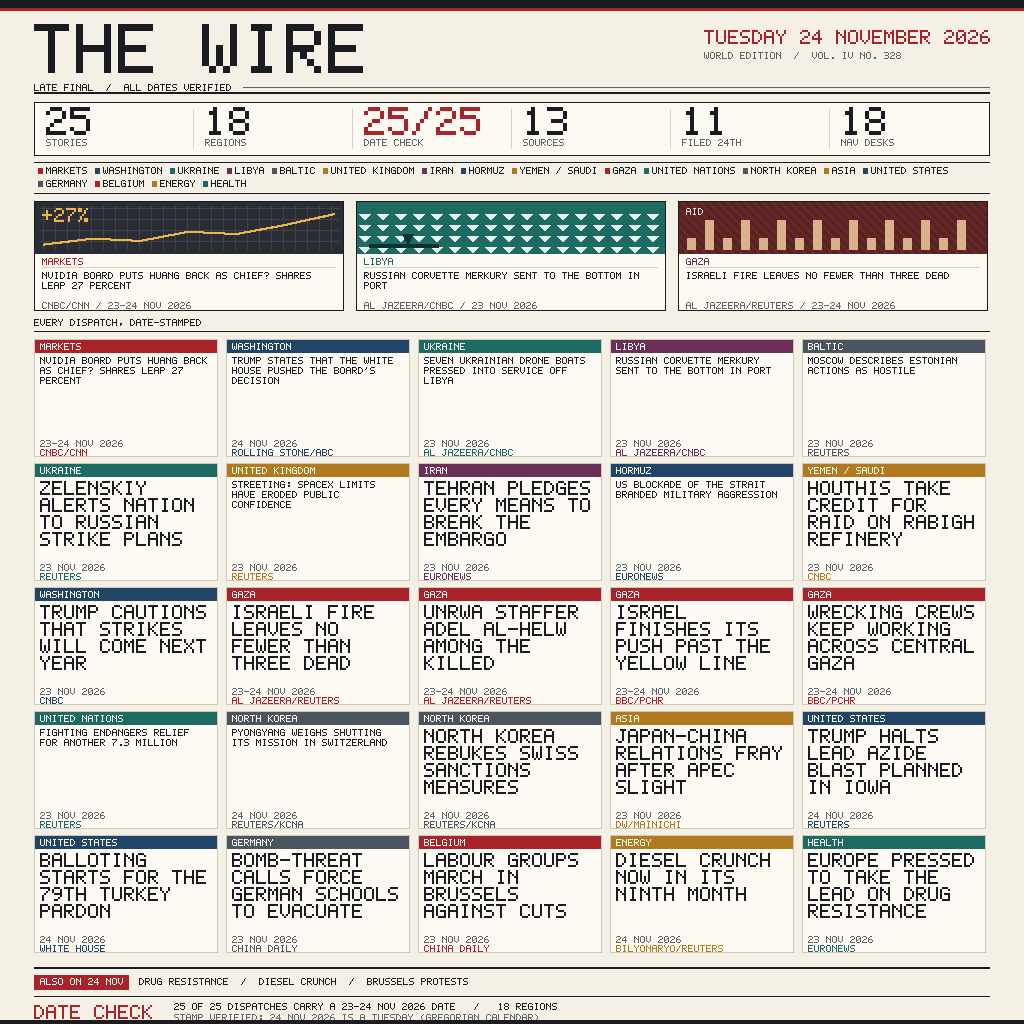
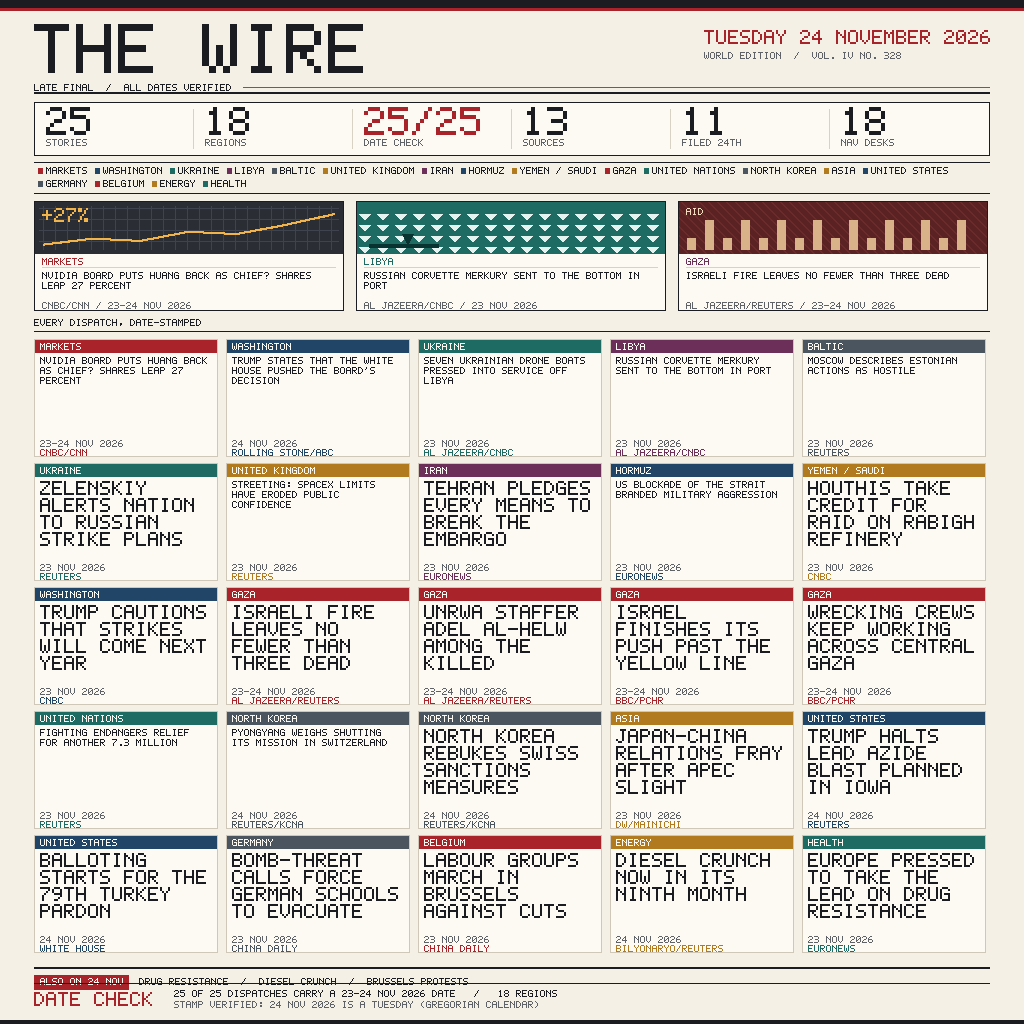
entry: keep the date-check strip clear of the bottom edge

Changed region(s): [[0.0312, 0.9688, 0.5312, 1.0]]

diff --git a/main.py b/main.py
@@ -349,7 +349,7 @@ CARD_COLS = 5
 CARD_GAP_X = 8
 CARD_GAP_Y = 6
 CARD_W = (CONTENT_W - (CARD_COLS - 1) * CARD_GAP_X) // CARD_COLS
-CARD_H = 118
+CARD_H = 112
 
 
 # --------------------------------------------------------------------------
@@ -587,6 +587,9 @@ def draw_also_line(sheet: Sheet, y: int, extra) -> int:
 
 def draw_date_check(sheet: Sheet, y: int, facts) -> int:
     top = y + 6
+    # Clamp so both text lines finish inside the page with a small bottom margin.
+    floor = PAGE_H - 4 - BOTTOM_MARGIN - 27
+    top = min(top, floor)
     sheet.rule(MARGIN, top, CONTENT_W, INK, 1)
     heading = "DATE CHECK"
     sheet.write(MARGIN, top + 9, heading, RED, 2)
@@ -598,6 +601,9 @@ def draw_date_check(sheet: Sheet, y: int, facts) -> int:
     sheet.write(column_x, top + 18, truncate(stamp, PAGE_W - MARGIN - column_x, 1), INK_SOFT, 1)
     sheet.fill_rect(0, PAGE_H - 4, PAGE_W, 4, INK)
     return top + 31
+
+
+BOTTOM_MARGIN = 10
 
 
 # --------------------------------------------------------------------------
